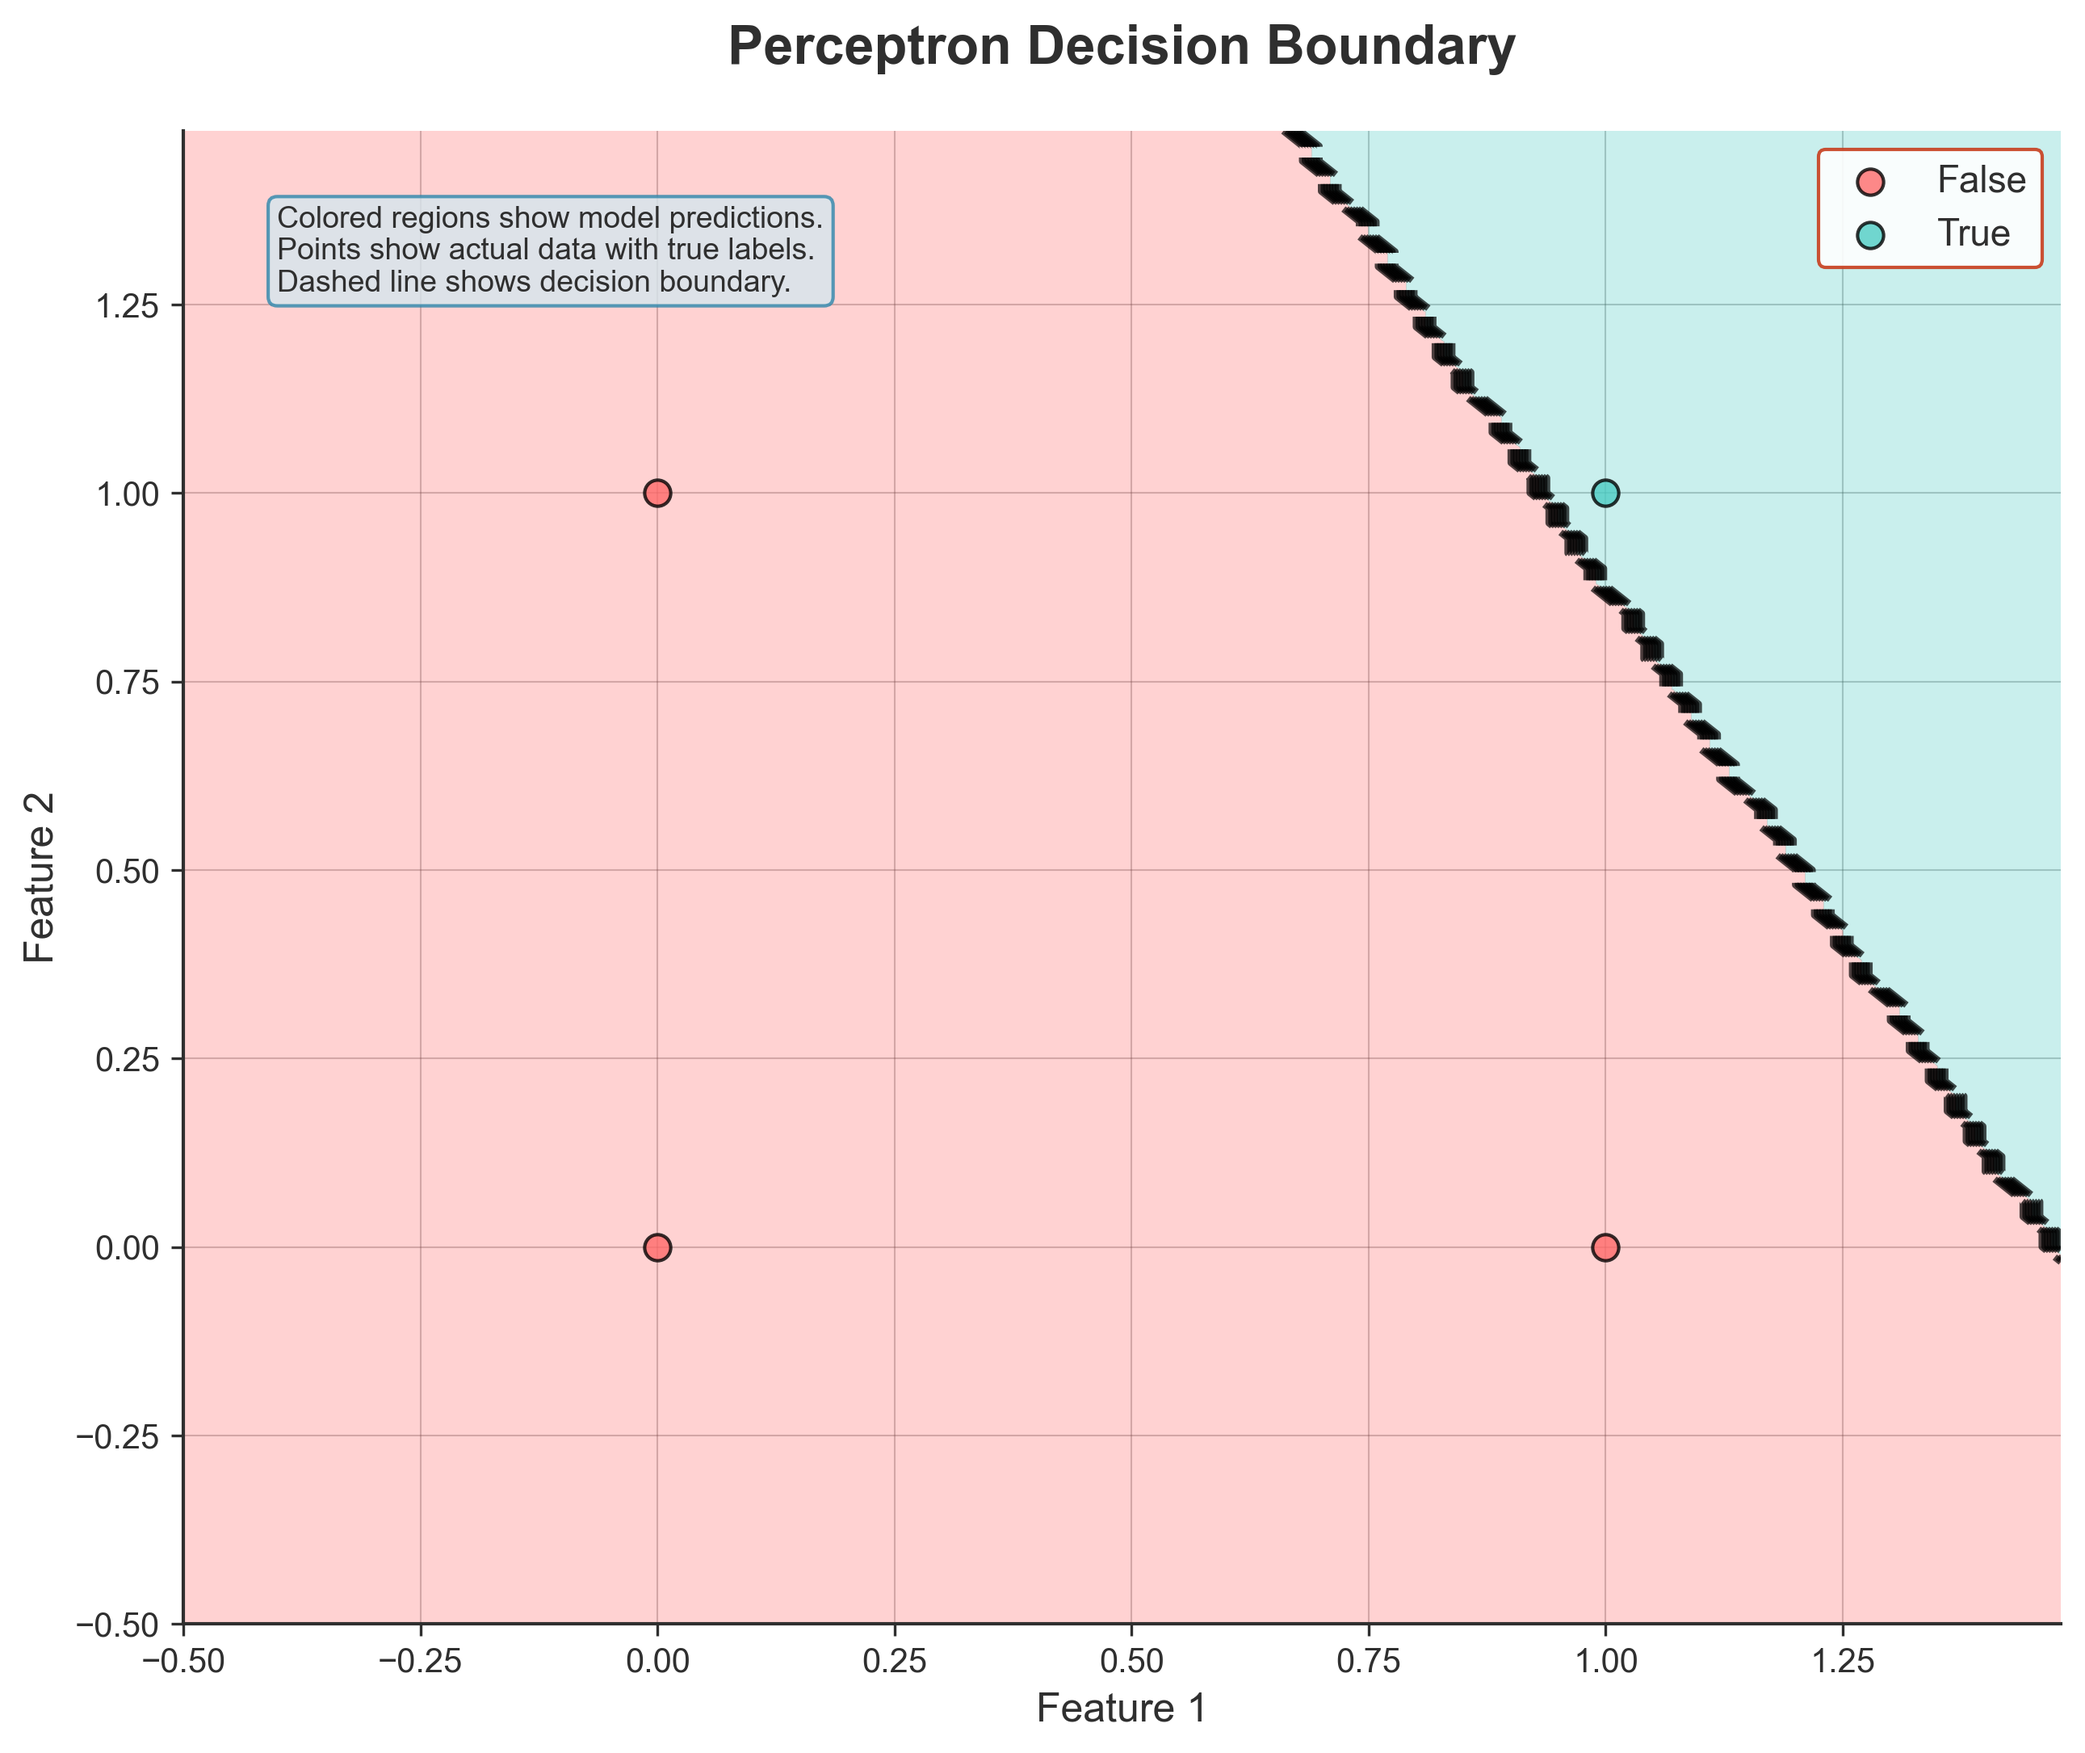
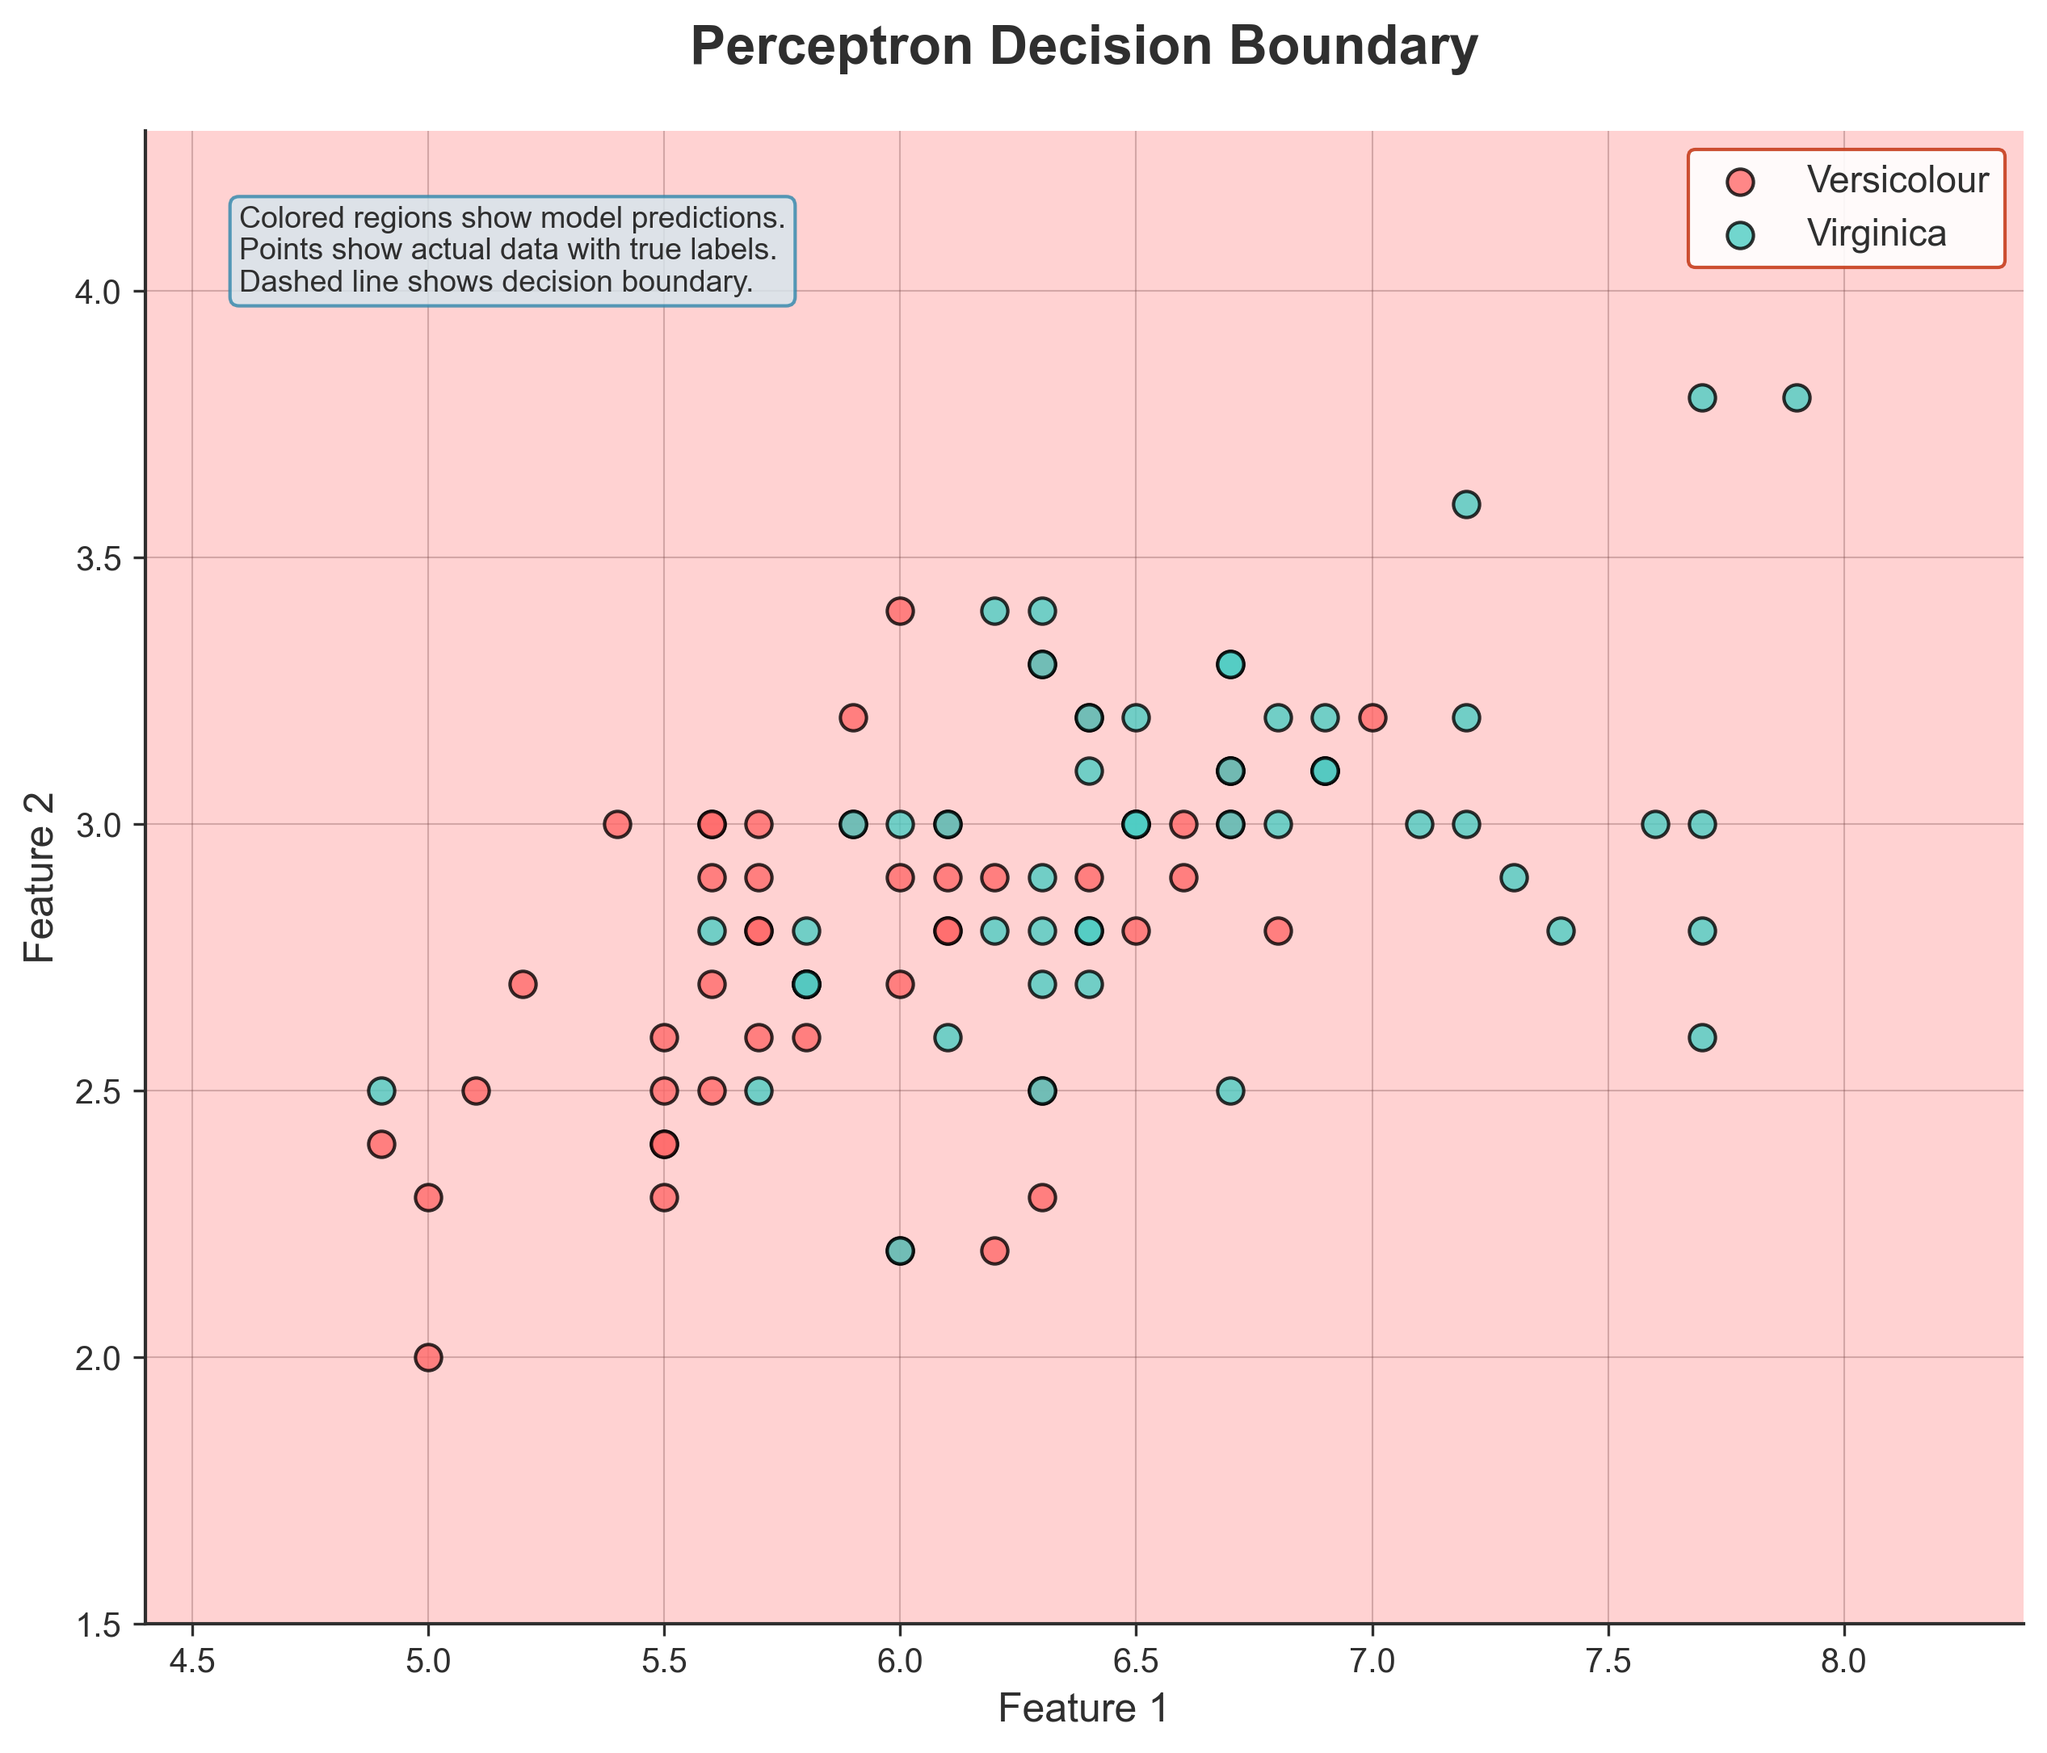
Update Perceptron configuration and training process; enhance visualization logging and error handling
- Increased the default number of training epochs from 100 to 150 in the configuration.
- Modified the training function to allow an optional override for the number of epochs.
- Improved logging messages in the PerceptronVisualizer by removing unnecessary emojis and enhancing clarity.
- Added error handling for GIF creation in the W&B integration to ensure robustness during visualization logging.
- Updated decision boundary and learning curve images to reflect recent changes.

diff --git a/01_Perceptron/src/wandb_integration.py b/01_Perceptron/src/wandb_integration.py
@@ -210,16 +210,21 @@ class PerceptronWandbVisualizer(BaseWandbVisualizer):
             bias_history = getattr(model, 'bias_history', None)
             accuracy_history = getattr(model, 'accuracy_history', None)
             if weights_history is not None:
-                weights_history = np.array(weights_history)
-                if weights_history.ndim == 2 and weights_history.shape[1] == 784:
-                    gif_path = run_visualizer.create_weights_animation_gif(
-                        weights_history,
-                        save_path=os.path.join(run_subdir, "perceptron_weights_evolution.gif"),
-                        experiment_name=experiment_name or "mnist"
-                    )
-                    if hasattr(self, 'wandb_run') and self.wandb_run:
-                        import wandb
-                        self.wandb_run.log({"Weights_Evolution_GIF": wandb.Video(gif_path, format="gif")})
+                try:
+                    weights_history = np.array(weights_history)
+                    if weights_history.ndim == 2 and weights_history.shape[1] == 784:
+                        gif_path = run_visualizer.create_weights_animation_gif(
+                            weights_history,
+                            save_path=os.path.join(run_subdir, "perceptron_weights_evolution.gif"),
+                            experiment_name=experiment_name or "mnist"
+                        )
+                        if hasattr(self, 'wandb_run') and self.wandb_run:
+                            import wandb
+                            self.wandb_run.log({"Weights_Evolution_GIF": wandb.Video(gif_path, format="gif")})
+                    else:
+                        logger.debug(f"Weights history shape {weights_history.shape} not suitable for GIF animation (requires shape (epochs, 784))")
+                except Exception as e:
+                    logger.warning(f"Could not create weights animation GIF: {e}")
             # Log weights distribution plot
             if weights_history is not None:
                 fig = run_visualizer.plot_weights_distribution(weights_history, save_name="weights_dist.png", experiment_name=experiment_name or "mnist")
@@ -241,16 +246,30 @@ class PerceptronWandbVisualizer(BaseWandbVisualizer):
             
             # Log minimal 28x28 weights evolution GIF
             if weights_history is not None:
-                minimal_gif_path = run_visualizer.create_minimal_weights_gif(weights_history, save_path=os.path.join(run_subdir, "perceptron_weights_minimal.gif"))
-                if hasattr(self, 'wandb_run') and self.wandb_run:
-                    import wandb
-                    self.wandb_run.log({"Weights_Evolution_Minimal_GIF": wandb.Video(minimal_gif_path, format="gif")})
+                try:
+                    weights_history = np.array(weights_history)
+                    if weights_history.ndim == 2 and weights_history.shape[1] == 784:
+                        minimal_gif_path = run_visualizer.create_minimal_weights_gif(weights_history, save_path=os.path.join(run_subdir, "perceptron_weights_minimal.gif"))
+                        if hasattr(self, 'wandb_run') and self.wandb_run:
+                            import wandb
+                            self.wandb_run.log({"Weights_Evolution_Minimal_GIF": wandb.Video(minimal_gif_path, format="gif")})
+                    else:
+                        logger.debug(f"Weights history shape {weights_history.shape} not suitable for minimal GIF (requires shape (epochs, 784))")
+                except Exception as e:
+                    logger.warning(f"Could not create minimal weights GIF: {e}")
             # Log final weights heatmap
             if weights_history is not None:
-                final_weights = weights_history[-1]
-                final_weights_path = run_visualizer.plot_final_weights_distribution(final_weights, save_path=os.path.join(run_subdir, "perceptron_final_weights.png"), experiment_name=experiment_name or "mnist")
-                if hasattr(self, 'wandb_run') and self.wandb_run:
-                    self.wandb_run.log({"Final_Weights_Heatmap": wandb.Image(final_weights_path)})
+                try:
+                    weights_history = np.array(weights_history)
+                    if weights_history.shape[1] == 784:
+                        final_weights = weights_history[-1]
+                        final_weights_path = run_visualizer.plot_final_weights_distribution(final_weights, save_path=os.path.join(run_subdir, "perceptron_final_weights.png"), experiment_name=experiment_name or "mnist")
+                        if hasattr(self, 'wandb_run') and self.wandb_run:
+                            self.wandb_run.log({"Final_Weights_Heatmap": wandb.Image(final_weights_path)})
+                    else:
+                        logger.debug(f"Weights history shape {weights_history.shape} not suitable for final weights heatmap (requires shape (epochs, 784))")
+                except Exception as e:
+                    logger.warning(f"Could not create final weights heatmap: {e}")
             
             # Log confusion matrix as W&B Table and image
             if hasattr(self, 'wandb_run') and self.wandb_run:

diff --git a/01_Perceptron/src/train.py b/01_Perceptron/src/train.py
@@ -64,7 +64,7 @@ _verify_virtual_environment()
 # Add src directory to Python path for imports
 sys.path.insert(0, os.path.join(os.path.dirname(__file__)))
 # --- Logging Setup ---
-def train(experiment: str, no_wandb: bool = False) -> None:
+def train(experiment: str, no_wandb: bool = False, epochs_override: int | None = None) -> None:
     """Orchestrates a single training and evaluation run for a given experiment.
 
     This function performs the following steps:
@@ -102,12 +102,15 @@ def train(experiment: str, no_wandb: bool = False) -> None:
     # --- Setup W&B ---
     wandb_mode = "disabled" if no_wandb else "online"
 
+    # Use epochs override if provided, otherwise use config default
+    epochs = epochs_override if epochs_override is not None else exp_config["epochs"]
+    
     wandb.init(
         mode=wandb_mode,
         project=WANDB_PROJECT_NAME,
         config={
             "learning_rate": exp_config["learning_rate"],
-            "epochs": exp_config["epochs"],
+            "epochs": epochs,
             "experiment_type": experiment,
         }
     )
@@ -195,10 +198,15 @@ def main():
         action='store_true',
         help="Disable Weights & Biases logging for this run."
     )
+    parser.add_argument(
+        '--epochs',
+        type=int,
+        help="Override the default number of epochs from config."
+    )
     args, unknown = parser.parse_known_args()
     if unknown:
         logging.warning("Unrecognized arguments will be ignored: %s", unknown)
-    train(args.experiment, no_wandb=args.no_wandb)
+    train(args.experiment, no_wandb=args.no_wandb, epochs_override=args.epochs)
 
 if __name__ == "__main__":
     main()

diff --git a/01_Perceptron/src/visualize.py b/01_Perceptron/src/visualize.py
@@ -239,7 +239,7 @@ class PerceptronVisualizer(BaseVisualizer):
             add_mathematical_context(
                 ax,
                 "Decision Boundary",
-                "w₁x₁ + w₂x₂ + b = 0",
+                "w1*x1 + w2*x2 + b = 0",
                 "Linear separation of classes"
             )
             
@@ -272,7 +272,7 @@ class PerceptronVisualizer(BaseVisualizer):
         if not self.enabled:
             return None
             
-        logger.info("🎮 Generating interactive visualization...")
+        logger.info("Generating interactive visualization...")
         
         # Use Phase 2 interactive features
         fig, ax = self.interactive_viz.create_interactive_decision_boundary(

diff --git a/01_Perceptron/src/config.py b/01_Perceptron/src/config.py
@@ -56,7 +56,7 @@ EXPERIMENTS: Dict[str, Dict[str, Any]] = {
         # The Perceptron should converge easily.
         "data_loader": lambda: load_iris_data(class_indices=[0, 1]),
         "learning_rate": 0.01,
-        "epochs": 100,
+        "epochs": 150,
         "class_names": ['Setosa', 'Versicolour'],
     },
     "iris-hard": {
